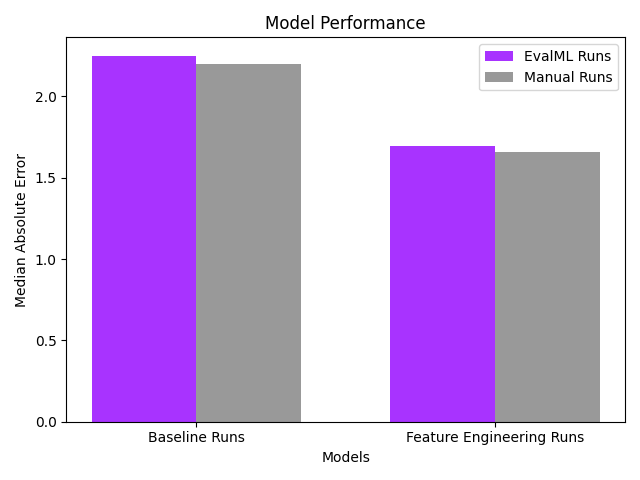
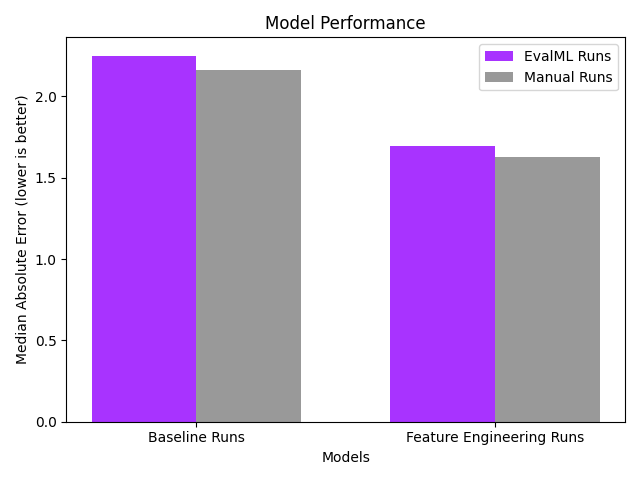
Respond to comments

Changed region(s): [[0.0, 0.2188, 0.0625, 0.75], [0.7812, 0.3125, 0.9375, 0.3438], [0.3125, 0.125, 0.4688, 0.1562]]

diff --git a/predict-daily-temperature/utils.py b/predict-daily-temperature/utils.py
@@ -12,10 +12,6 @@ def plot_model_performances(baseline_evalml_score, random_forest_evalml_score, b
     # data to plot
     n_groups = 2
 
-    # manual baseline 2.16
-    # featuretools run 1.63
-    # evalml baseline 2.25
-    # evalml random forest 1.6967243283642546
     evalml_runs = (baseline_evalml_score, random_forest_evalml_score)
     manual_runs = (baseline_score, featuretools_score)
 
@@ -36,7 +32,7 @@ def plot_model_performances(baseline_evalml_score, random_forest_evalml_score, b
             label='Manual Runs')
 
     plt.xlabel('Models')
-    plt.ylabel('Median Absolute Error')
+    plt.ylabel('Median Absolute Error (lower is better)')
     plt.title('Model Performance')
     plt.xticks(index + bar_width/2,
                ("Baseline Runs", "Feature Engineering Runs"))
